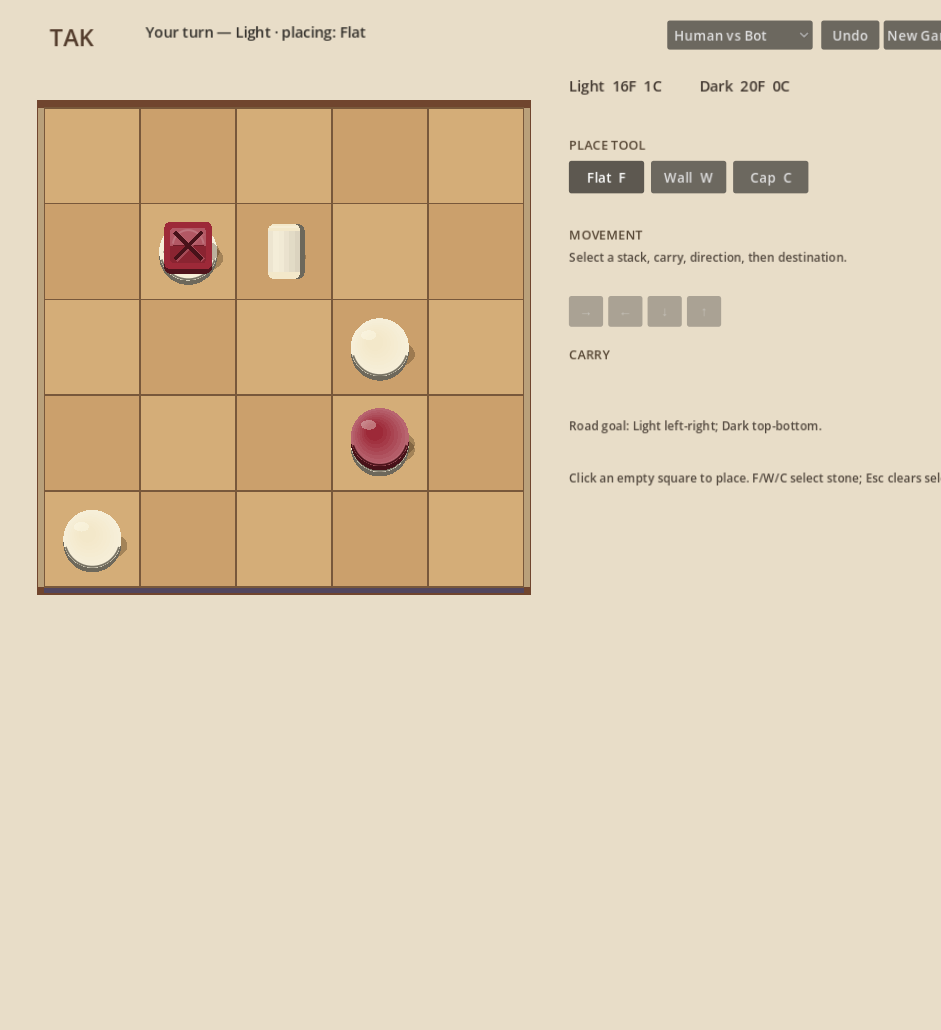
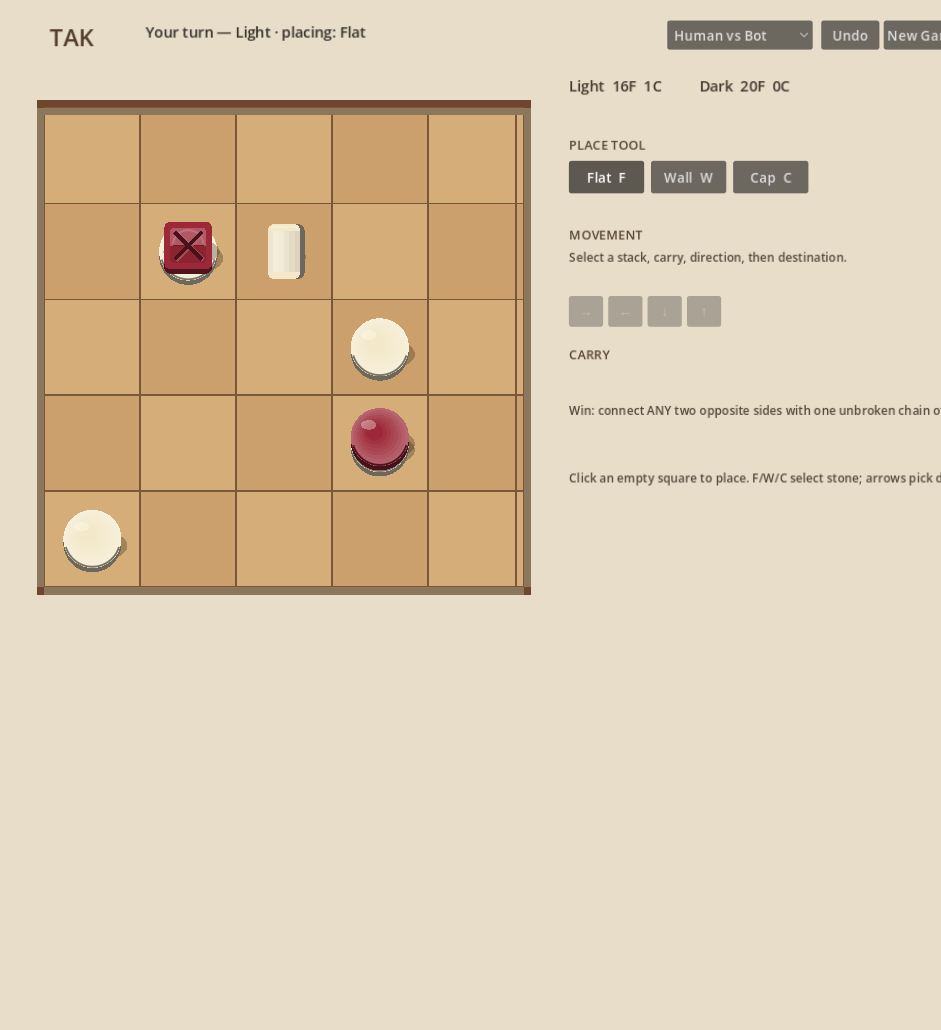
Correct road rule: a road may join ANY two opposite edges and wins for either player (per-player home edges was wrong); road_exists/road_cells now flood both orientations; bot inherits the fix via engine win state; neutral edge bands, corrected help text and README; 4 new direction tests

Changed region(s): [[0.0308, 0.0932, 0.5855, 0.5903], [0.6164, 0.3728, 1.0, 0.435], [0.9554, 0.435, 1.0, 0.466]]

diff --git a/README.md b/README.md
@@ -10,7 +10,7 @@ A two-player digital implementation of [Tak](https://en.wikipedia.org/wiki/Tak_(
 - Opening moves: each player places one of the *opponent's* flats
 - Place or move per turn; stack carry limit of 5 with mandatory drop in every cell entered
 - Walls are immobile, block stacking, and can only be toppled by a lone capstone (toppled walls become the original owner's flats)
-- Win by road (orthogonal chain of your flats/capstones connecting your two home edges) or, if the game ends by board fill / no legal moves, by count of top flats
+- Win by road: an orthogonally connected chain of your flats/capstones (top pieces only) joining **any two opposite edges of the board** — either pair counts for either player; if the game ends by board fill / no legal moves, winner is by count of top flats
 - Diagonals are meaningless, per the book
 
 ## Running
